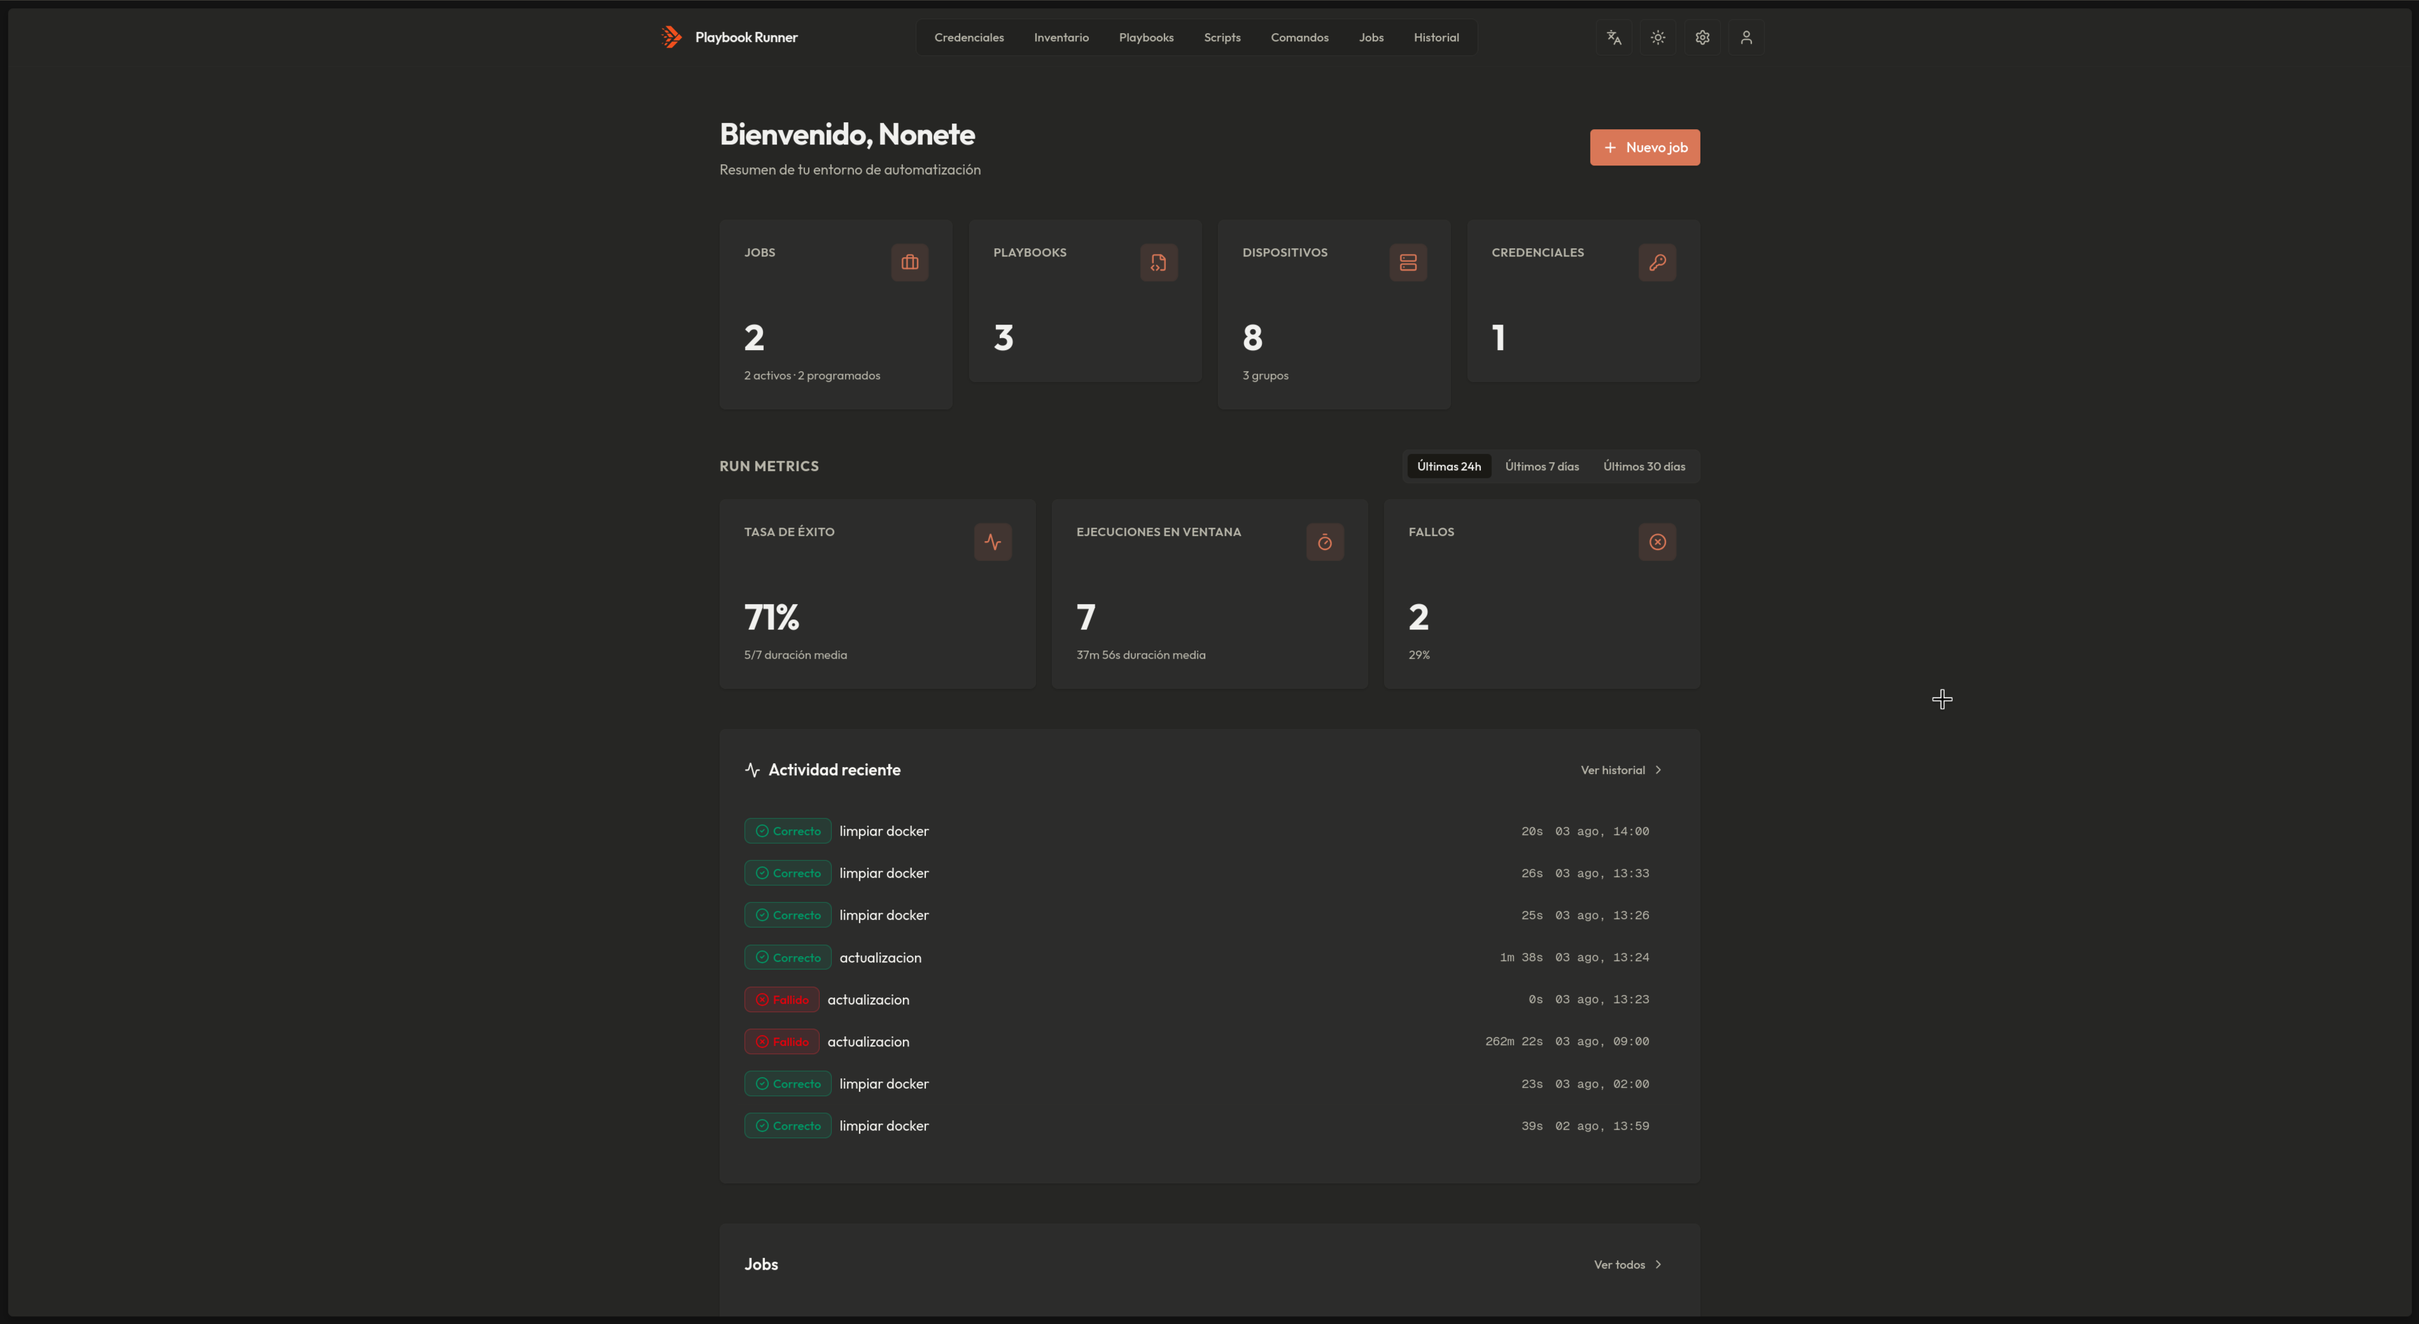
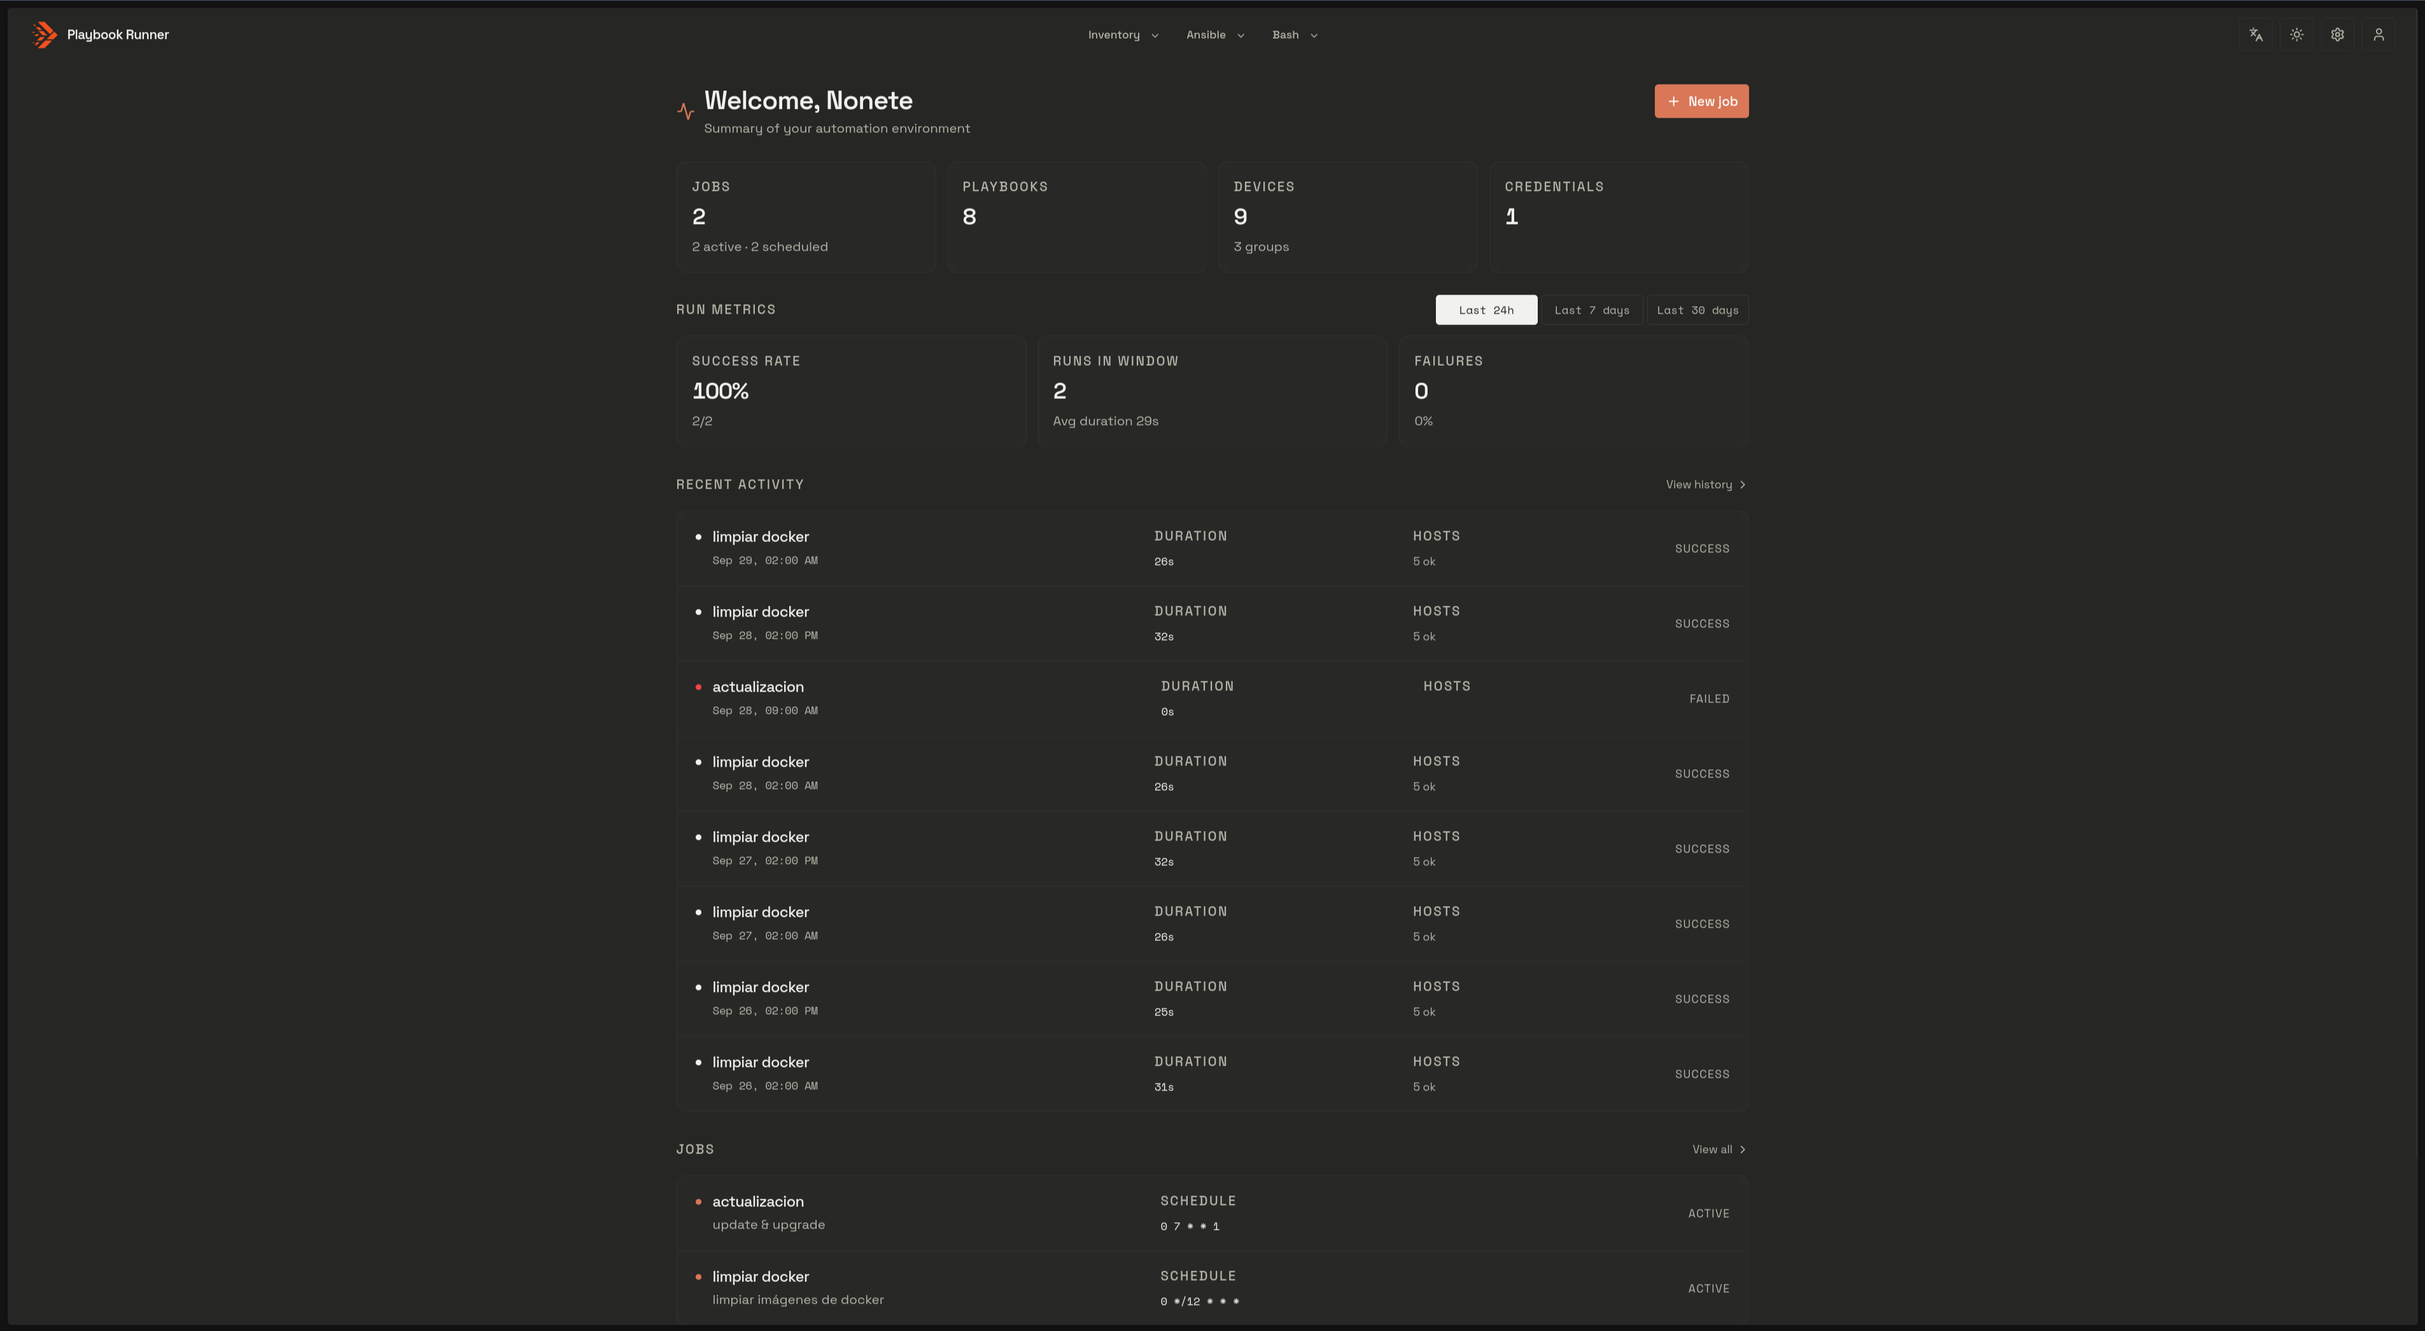
feat(docs): update README for v0.8.0 changes and enhancements
- Add important note on backing up the generated `.env` and `CREDENTIALS_ENCRYPTION_KEY`
- Document the required environment variable for backend startup in v0.8.0
- Include detailed upgrade instructions for transitioning from v0.7.x to v0.8.0
- Highlight changes in deployment, including Ansible service state management and removal of certain ports
- Update quick start instructions and secrets generation table for clarity
- Enhance terminal frame component for improved responsiveness in the frontend
- Update images for home and inventory to reflect recent design changes

diff --git a/apps/frontend/src/features/run/components/terminal-frame.tsx b/apps/frontend/src/features/run/components/terminal-frame.tsx
@@ -172,7 +172,7 @@ export function TerminalFrame({
       {panel ? (
         <aside
           className={cn(
-            "flex min-h-0 shrink-0 flex-col overflow-hidden border-t bg-background split:max-h-[46dvh] lg:max-h-none lg:w-72 lg:border-t-0 lg:border-l",
+            "flex min-h-0 shrink-0 flex-col overflow-hidden border-t bg-background max-lg:split:max-h-[46dvh] lg:w-72 lg:border-t-0 lg:border-l",
             setupFirst &&
               "stacked:order-first stacked:border-t-0 stacked:border-b"
           )}

diff --git a/README.md b/README.md
@@ -23,7 +23,8 @@ curl -fsSL https://raw.githubusercontent.com/Nonetss/playbook-runner/main/script
 ```
 
 That runs `scripts/bootstrap.sh`, which asks you for the admin user/password and
-a few more things, generates secrets with `openssl`, writes a `.env` and a
+a few more things, generates every secret with `openssl` (including the
+`CREDENTIALS_ENCRYPTION_KEY` that encrypts stored SSH keys), writes a `.env` and a
 `compose.yml` **in the current directory** (the production overlay, saved under
 that name so a plain `docker compose up -d` picks it up), pulls the images from
 `ghcr.io`, and brings the stack up. You end up with everything running at
@@ -34,6 +35,46 @@ that name so a plain `docker compose up -d` picks it up), pulls the images from
 > `/dev/tty`. It writes into the directory you run it from — not into a clone —
 > so an empty folder is all you need. To pin a different version, prefix it with
 > `PB_REF=<tag>`.
+
+> [!IMPORTANT]
+> Back up the generated `.env`, and especially `CREDENTIALS_ENCRYPTION_KEY`.
+> Losing that key makes every SSH private key stored in the database
+> unrecoverable.
+
+## Upgrading from v0.7.x
+
+v0.8.0 added a **required** environment variable. The backend refuses to start
+without it:
+
+1. Generate a key and add it to your `.env` (next to `compose.yml`):
+
+   ```bash
+   echo "CREDENTIALS_ENCRYPTION_KEY=$(openssl rand -base64 32)" >> .env
+   ```
+
+2. Back the key up.
+3. Refresh the compose file (volumes, ports and healthchecks changed), then
+   pull and restart:
+
+   ```bash
+   curl -fsSL https://raw.githubusercontent.com/Nonetss/playbook-runner/main/compose.prod.yml -o compose.yml
+   docker compose pull && docker compose up -d
+   ```
+
+4. Encrypt the credentials that were stored in plaintext before the upgrade
+   (run once; `--decrypt` rolls it back):
+
+   ```bash
+   docker compose exec backend bun dist/encrypt-credentials.mjs
+   ```
+
+Other deployment changes in v0.8: the Ansible service keeps its state in the
+`ansible_state` volume (the old `./.data/ansible-runner:/app/playbook` mount and
+`ANSIBLE_PLAYBOOK_PATH` are gone), it no longer publishes port `8000` on the
+host, and the backend no longer runs a gRPC server (`BACKEND_GRPC_TARGET` and
+port `50052` were removed). See the
+[release notes](https://github.com/Nonetss/playbook-runner/releases) for
+details.
 
 ## Screenshots
 
@@ -73,15 +114,19 @@ codes, and ready-to-run `curl`/client snippets. The raw spec lives at
   can **import** an existing key or **generate** a fresh ed25519 pair right
   in the browser, and copy a ready-made **provisioning script** that creates
   the user, authorizes the public key, and grants passwordless sudo on a
-  target host.
+  target host. Private keys are encrypted at rest (AES-256-GCM) and are
+  never returned by the API.
 - **Playbooks** — write Ansible YAML in the browser, save it, version it in
   the database. No more `scp`ing `.yml` files around.
 - **Run on demand** — pick a playbook, pick a group (or a hand-picked set
-  of devices), click *Run*. Output streams into the browser via SSE
-  (Server-Sent Events), so you see `PLAY [...]` and `TASK [...]` lines as
-  ansible-runner emits them, with no polling.
+  of devices), review the confirmation step, click *Run*. Output streams
+  into the browser live, so you see `PLAY [...]` and `TASK [...]` lines as
+  ansible-runner emits them, with no polling. Closing the tab cancels the
+  run on the executor.
+- **Scripts** — save Bash or Python scripts and run them on a selection of
+  devices/groups, with the same live console as a playbook.
 - **Ad-hoc commands** — for quick one-offs that don't deserve a playbook,
-  the *Comandos* page runs an ad-hoc Ansible module (`shell` or `command`,
+  the *Commands* page runs an ad-hoc Ansible module (`shell` or `command`,
   with optional `become`) against a selection of devices/groups and streams
   the output live, same as a playbook run.
 - **Schedule jobs** — same thing but with a cron expression. The backend
@@ -90,10 +135,18 @@ codes, and ready-to-run `curl`/client snippets. The raw spec lives at
   multiple replicas and run the scheduler elsewhere.
 - **Dashboard** — at a glance: how many devices, credentials, playbooks,
   and recent job runs (with their status).
+- **Users & roles** — a closed team: there is no public sign-up. Admins
+  create accounts and assign roles (`admin`, `user`, `pending`) from
+  */admin/users*; `pending` users can sign in but can't use the app until
+  an admin approves them.
 - **Multi-user, with SSO** — sign in with email + password (default), or
   with a corporate OIDC provider (Keycloak, Authentik, Google, anything
   OIDC-compliant). The two can run side by side; SSO is opt-in via env
   vars and the app boots fine without it.
+- **API keys** — create personal API keys from the *Config* page to call
+  the API from scripts or CI (send them as `x-api-key`).
+- **Installable on mobile** — the frontend is a PWA, so you can add it to
+  your phone's home screen.
 
 ## Architecture
 
@@ -111,11 +164,15 @@ the ansible service over gRPC (`RunnerService`, see `proto/run.proto`) with
 the already-resolved payload. Ansible materializes a temp inventory + key
 files, hands them to `ansible-runner` (playbook mode or ad-hoc module
 mode), and streams `RunEvent` frames straight back over that same
-server-streaming RPC — no HTTP round trip and no SSE between the two
-services (the browser still gets its live output over SSE from the
+server-streaming RPC — no HTTP round trip between the two services (the
+browser still gets its live output as an oRPC event stream from the
 backend). Calls carry a shared `SERVICE_TOKEN` that the ansible
 service's gRPC interceptor checks. All business rules and authorization
 live in the backend.
+
+The executor runs at most `MAX_CONCURRENT_RUNS` (default 8) Ansible
+processes at once; extra requests are rejected immediately instead of
+queueing. A scheduled job never overlaps with itself.
 
 ## Stack
 
@@ -136,17 +193,19 @@ live in the backend.
 
 ```bash
 bun install
-cp .env.example .env          # fill in secrets
 cp apps/backend/.env.example apps/backend/.env
 cp apps/frontend/.env.example apps/frontend/.env
-bun run db:push               # apply schema to the database
-bun run db:seed               # create the default admin user
+# In apps/backend/.env, set at least:
+#   BETTER_AUTH_SECRET          openssl rand -base64 48
+#   CREDENTIALS_ENCRYPTION_KEY  openssl rand -base64 32
+#   SERVICE_TOKEN               openssl rand -base64 48 (same value in apps/ansible/.env)
 bun run dev
 ```
 
-Then open <http://localhost:4321> and sign in with
-`admin@playbook-runner.local` / `admin1234` (or whatever you set in
-`SEED_ADMIN_*`).
+On startup the backend applies the Drizzle migrations and creates the seed
+admin if it doesn't exist, so there is no separate migrate/seed step. Open
+<http://localhost:4321> and sign in with `admin@playbook-runner.local` /
+`admin1234` (or whatever you set in `SEED_ADMIN_*`).
 
 A PostgreSQL is the only external dependency. The easiest way:
 
@@ -164,11 +223,22 @@ Then point `DATABASE_URL` in `apps/backend/.env` at it.
 ## Quick start (production)
 
 ```bash
-cp .env.example .env            # set POSTGRES_PASSWORD, BETTER_AUTH_*, etc.
+cp .env.example .env            # replace every CHANGE_ME (see below)
 docker compose -f compose.prod.yml --env-file .env up -d
-docker compose -f compose.prod.yml --env-file .env exec backend bun run db:push
-docker compose -f compose.prod.yml --env-file .env exec backend bun run db:seed
 ```
+
+Secrets to generate before the first start:
+
+| Variable | Generate with |
+| --- | --- |
+| `POSTGRES_PASSWORD` | `openssl rand -hex 32` |
+| `BETTER_AUTH_SECRET` | `openssl rand -base64 48` |
+| `SERVICE_TOKEN` | `openssl rand -base64 48` |
+| `CREDENTIALS_ENCRYPTION_KEY` | `openssl rand -base64 32` (back it up!) |
+
+The backend applies the database migrations and creates the seed admin on
+every start (the seed is skipped if the admin already exists, and refuses the
+default password in production), so `up -d` is all you need.
 
 `compose.prod.yml` pulls three prebuilt multi-arch images
 (`linux/amd64,linux/arm64`) from `ghcr.io/nonetss/playbook-runner-*`,
@@ -203,9 +273,9 @@ Treat them as copy-paste starters — open one in the *Playbooks* page, hit
 
 ```txt
 playbook-runner/
-├── .data/           # Ignored local runtime state (inventory, keys, artifacts)
+├── .data/           # Ignored local runtime state (Ansible known_hosts)
 ├── apps/
-│   ├── frontend/    # Astro + React UI
+│   ├── frontend/    # Astro + React UI (PWA)
 │   ├── backend/     # Hono API + oRPC + cron loop + auth
 │   └── ansible/     # Python service wrapping ansible-runner
 ├── packages/
@@ -216,8 +286,10 @@ playbook-runner/
 │   ├── env/         # Zod-validated env vars (server + web)
 │   ├── grpc/        # Shared TypeScript gRPC infrastructure
 │   └── logger/      # Shared structured logging
+├── playbooks/       # Example playbooks
 ├── proto/           # Shared gRPC contracts
-└── python/          # Shared Python packages
+├── python/          # Shared Python packages
+└── scripts/         # bootstrap.sh installer
 ```
 
 Persistent Ansible runner state (currently the SSH `known_hosts` file) lives in
@@ -245,23 +317,39 @@ instead of failing in some weird place later.
 
 The two files to know:
 
-- **`.env`** (consumed by `compose.prod.yml`) — only the public-facing
-  variables: registry tag pins, the public URL, the DB password, the
-  Better Auth secret, the OAuth client credentials, the seed admin.
-- **`apps/backend/.env`** (consumed by the backend and by `drizzle-kit`)
-  — the full server-side schema: `DATABASE_URL`, `BETTER_AUTH_URL`,
-  `BETTER_AUTH_SECRET`, `GENERIC_OAUTH_*`, `SERVICE_TOKEN`,
-  `JOB_SCHEDULER_ENABLED`, `SEED_ADMIN_*`.
+- **`.env`** (consumed by `compose.prod.yml`) — everything a deployment
+  needs: registry tag pins, the public URL, the DB password, the Better
+  Auth secret, `SERVICE_TOKEN`, `CREDENTIALS_ENCRYPTION_KEY`, the OAuth
+  client credentials, the seed admin and `SSH_HOST_KEY_POLICY`.
+- **`apps/backend/.env`** (local dev; also read by `drizzle-kit`) — the
+  full server-side schema.
 
 Copy from `.env.example` and `apps/backend/.env.example` and fill in
 `CHANGE_ME` placeholders.
 
+| Variable | Required | Notes |
+| --- | --- | --- |
+| `DATABASE_URL` | yes | PostgreSQL connection string. |
+| `BETTER_AUTH_SECRET` | yes | ≥ 32 chars. |
+| `BETTER_AUTH_URL` | yes | Public URL in production; `http://localhost:3000` in dev. |
+| `CORS_ORIGIN` | yes | Public frontend URL. |
+| `CREDENTIALS_ENCRYPTION_KEY` | yes | Base64 of exactly 32 bytes. Encrypts stored SSH private keys — back it up. |
+| `SERVICE_TOKEN` | recommended | ≥ 32 chars, same value on backend and ansible. Authenticates the gRPC link. |
+| `ANSIBLE_GRPC_TARGET` | no | Default `localhost:50051` (set by compose). |
+| `JOB_SCHEDULER_ENABLED` | no | `1` (default) runs the in-process cron; `0` disables it. |
+| `SEED_ADMIN_EMAIL` / `_PASSWORD` / `_NAME` | no | Admin created at startup if missing. |
+| `GENERIC_OAUTH_CLIENT_ID` / `_SECRET` / `_ISSUER` | no | All three enable SSO. |
+| `SSH_HOST_KEY_POLICY` | no | Ansible service: `accept-new` (default), `strict`, `off`. |
+| `MAX_CONCURRENT_RUNS` | no | Ansible service: default `8`. |
+| `LOG_LEVEL` | no | `info` by default. |
+
 ## Authentication
 
-The app ships with email/password sign-in enabled out of the box. The
-`SEED_ADMIN_*` env vars are used by `bun run db:seed` to create a
-default admin the first time you run it (idempotent — it skips if the
-user already exists).
+The app ships with email/password sign-in enabled out of the box, but
+public sign-up is disabled: accounts are created by an admin from
+*/admin/users* or provisioned on first SSO sign-in. The `SEED_ADMIN_*`
+env vars define the first admin, which the backend creates on startup if
+it doesn't exist yet (`bun run db:seed` does the same by hand).
 
 To add a corporate SSO, set the three `GENERIC_OAUTH_*` vars in
 `apps/backend/.env`:
@@ -286,7 +374,7 @@ PostgreSQL is required. Drizzle migrations live in
 ```bash
 bun run db:push          # apply schema directly (dev)
 bun run db:generate      # create a new migration from schema changes
-bun run db:migrate       # apply pending migrations (prod)
+bun run db:migrate       # apply pending migrations (the backend also does it on startup)
 bun run db:studio        # open Drizzle Studio in the browser
 bun run db:seed          # create the default admin user (idempotent)
 ```
@@ -295,9 +383,10 @@ bun run db:seed          # create the default admin user (idempotent)
 
 Two compose files:
 
-- **`compose.yml`** — dev workflow. Builds the three images from the
-  local sources, mounts the playbook directory, and exposes the dev
-  ports.
+- **`compose.yml`** — builds the three images from the local sources.
+  Only the frontend is published on the host; the Ansible state lives in
+  the `ansible_state` volume. Add `-f compose.debug.yml` to publish the
+  Ansible HTTP API on `:8000`.
 - **`compose.prod.yml`** — production overlay. Pulls prebuilt
   multi-arch images from `ghcr.io/nonetss/playbook-runner-*`, bundles
   PostgreSQL, and wires healthchecks.
@@ -328,6 +417,8 @@ docker compose -f compose.prod.yml --env-file .env up -d
 | `bun run db:studio` | Open Drizzle Studio |
 | `bun run db:seed` | Create the default admin user |
 | `bun run check` | Run Biome lint/format |
+| `bun run format` | Format TypeScript (Biome) and Python (Ruff) |
+| `bun run test:e2e` | Run the Playwright E2E suite |
 | `bun run docker:build` | Build Docker images from source |
 | `bun run docker:up` | Start the dev Docker stack |
 | `bun run docker:logs` | Tail Docker logs |
